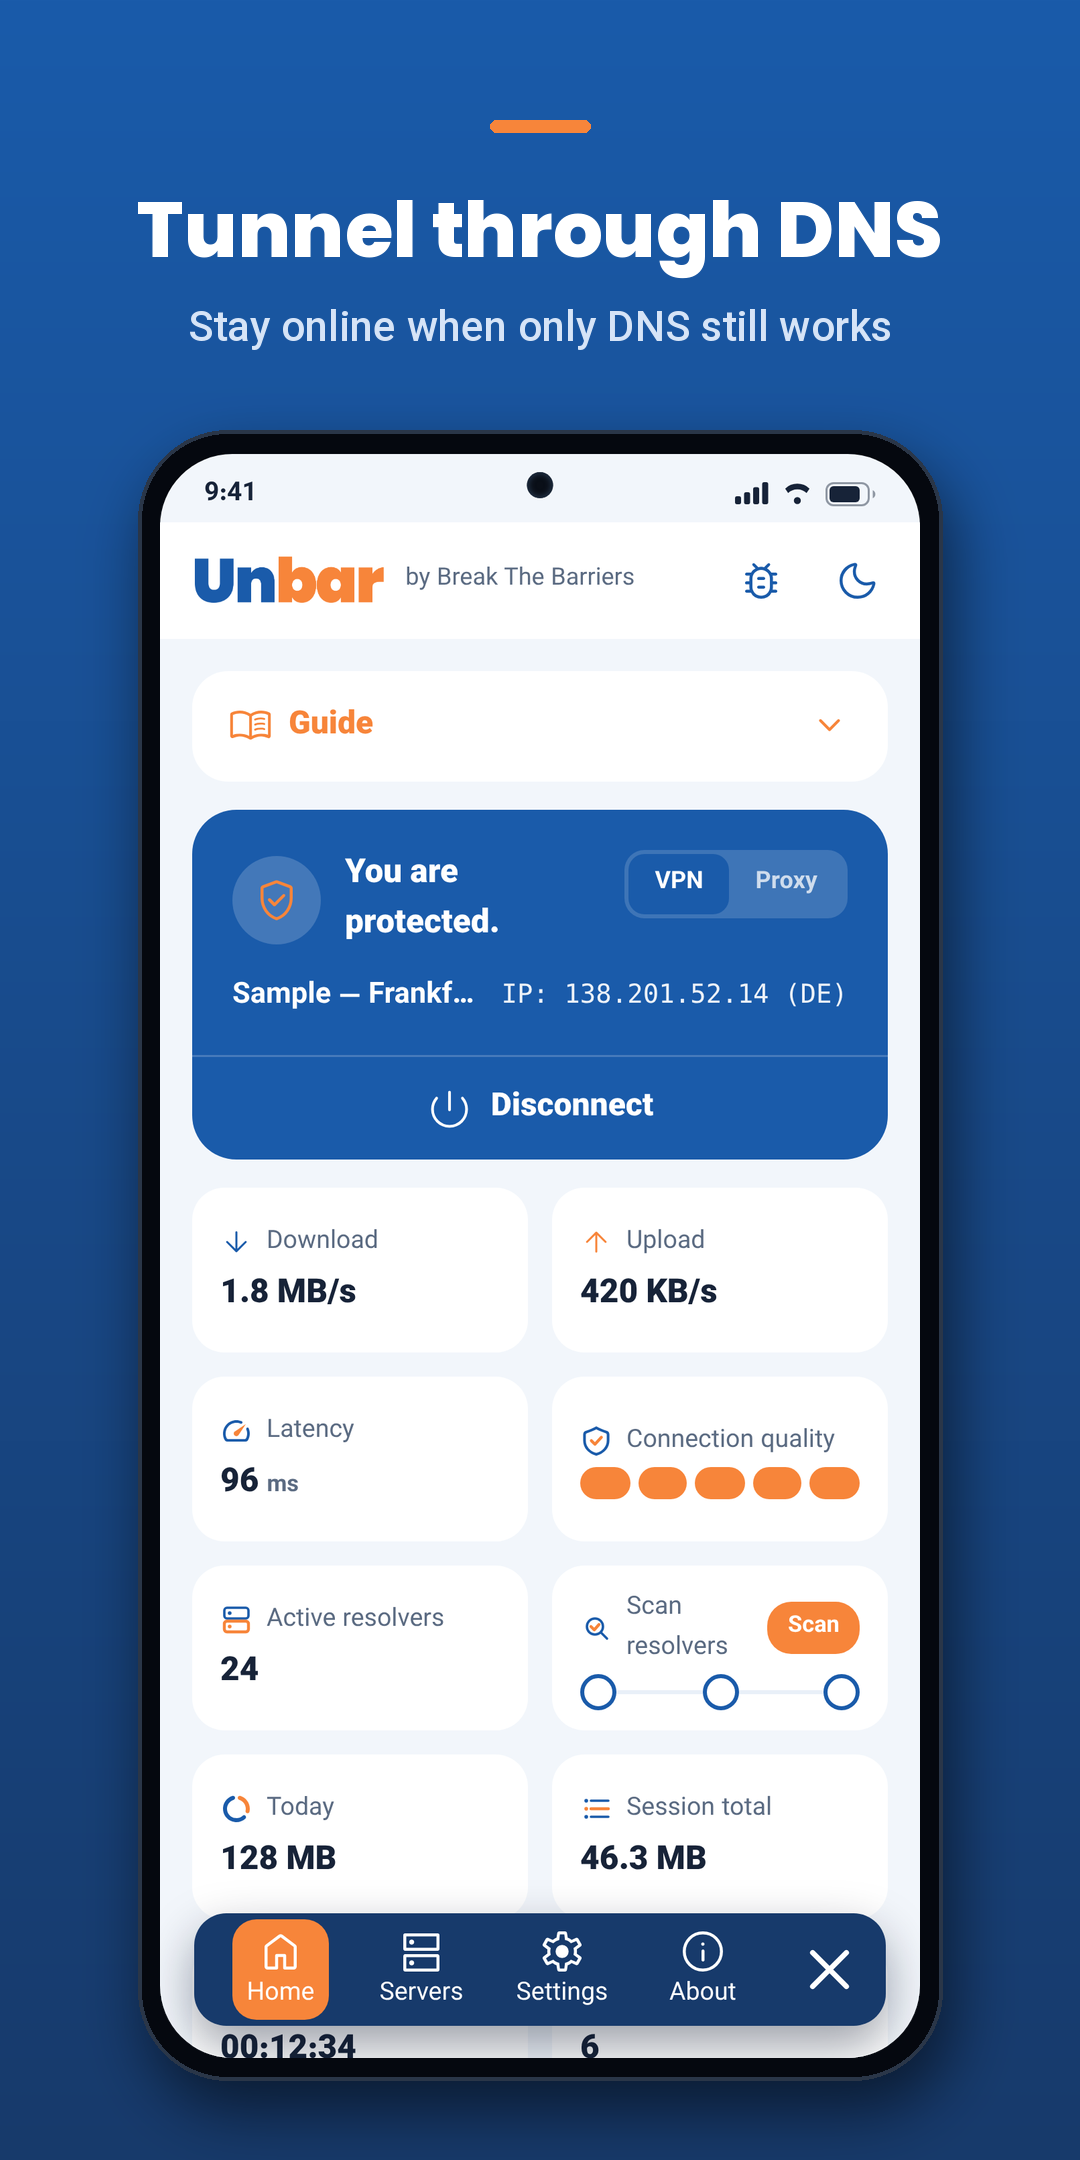
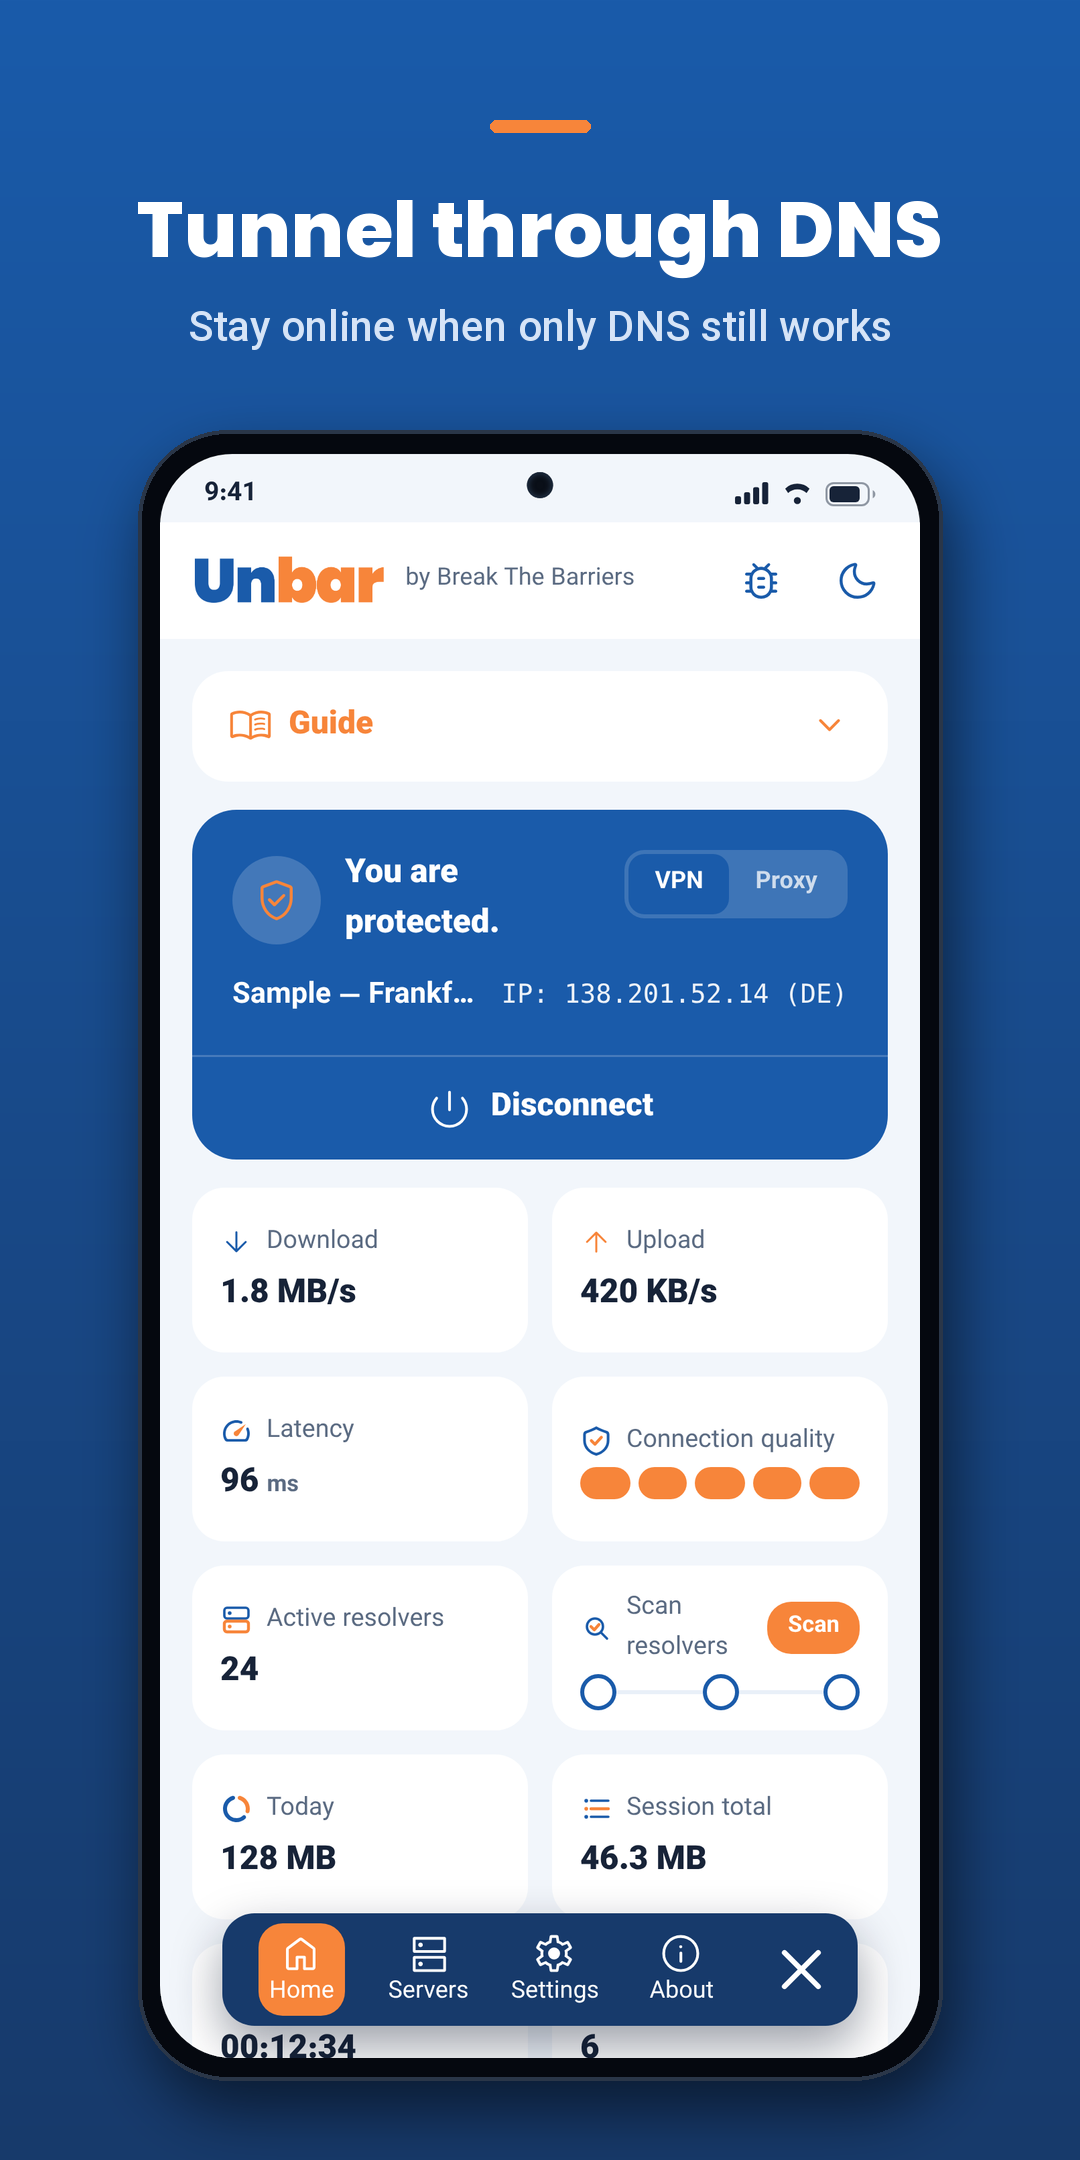
Unbar 1.0.2: shorter capsule menu, centred items with equal top/bottom space, centred text app-wide; screenshots re-rendered

diff --git a/android/app/src/main/java/com/breakthebarriers/unbar/ui/UnbarApp.kt b/android/app/src/main/java/com/breakthebarriers/unbar/ui/UnbarApp.kt
@@ -41,6 +41,7 @@ import androidx.compose.material.icons.rounded.Settings
 import androidx.compose.material3.ExperimentalMaterial3Api
 import androidx.compose.material3.Icon
 import androidx.compose.material3.IconButton
+import androidx.compose.material3.LocalTextStyle
 import androidx.compose.material3.MaterialTheme
 import androidx.compose.material3.Scaffold
 import androidx.compose.material3.Surface
@@ -64,6 +65,7 @@ import androidx.compose.ui.graphics.vector.ImageVector
 import androidx.compose.ui.platform.LocalLayoutDirection
 import androidx.compose.ui.res.stringResource
 import androidx.compose.ui.text.font.FontWeight
+import androidx.compose.ui.text.style.LineHeightStyle
 import androidx.compose.ui.text.style.TextOverflow
 import androidx.compose.ui.unit.LayoutDirection
 import androidx.compose.ui.unit.dp
@@ -557,9 +559,19 @@ private fun CapsuleMenuIcon(expanded: Boolean) {
     }
 }
 
+// (1.0.2): every item, selected or not, has the same box (icon,
+// 2dp gap, one trimmed label line, the pill's insets), so the icons
+// sit on one line, the block is centred in the capsule with equal
+// space above and below, and nothing moves when the selection moves.
 @Composable
 private fun CapsuleMenuItem(icon: ImageVector, labelRes: Int, selected: Boolean) {
     Column(
+        modifier = Modifier
+            .background(
+                if (selected) UnbarOrange else Color.Transparent,
+                RoundedCornerShape(12.dp)
+            )
+            .padding(horizontal = 5.dp, vertical = 4.dp),
         horizontalAlignment = Alignment.CenterHorizontally,
         verticalArrangement = Arrangement.Center
     ) {
@@ -567,12 +579,21 @@ private fun CapsuleMenuItem(icon: ImageVector, labelRes: Int, selected: Boolean)
             imageVector = icon,
             contentDescription = null,
             tint = Color.White,
-            modifier = Modifier.size(24.dp)
+            modifier = Modifier.size(22.dp)
         )
+        Spacer(modifier = Modifier.height(2.dp))
         Text(
             text = stringResource(labelRes),
-            fontSize = 13.sp,
-            lineHeight = 15.sp,
+            fontSize = 12.sp,
+            lineHeight = 14.sp,
+            // Glyphs centred in the line box and the extra leading
+            // trimmed, so the label adds no uneven space below.
+            style = LocalTextStyle.current.copy(
+                lineHeightStyle = LineHeightStyle(
+                    alignment = LineHeightStyle.Alignment.Center,
+                    trim = LineHeightStyle.Trim.Both
+                )
+            ),
             fontWeight = FontWeight.Normal,
             maxLines = 1,
             softWrap = false,
@@ -589,12 +610,12 @@ private fun FloatingCapsuleMenu(
     onNavigate: (String) -> Unit
 ) {
     var expanded by remember { mutableStateOf(false) }
-    // (1.0.33): 340dp, not 304dp — the 4 items need 71dp each
-    // (284dp of items) so the longest label ("Settings" /
-    // "تنظیمات") fits inside its orange pill without ellipsis.
-    // The 56dp close button is unchanged, so items = 340-56.
+    // (1.0.2): 316dp (was 340dp) — 12sp labels and 5dp pill insets
+    // let 4 items of 63dp (+8dp start inset = 260dp) hold the longest
+    // label ("Settings" / "تنظیمات") without ellipsis. The 56dp close
+    // button is unchanged, so items = 316-56.
     val capsuleWidth by animateDpAsState(
-        targetValue = if (expanded) 340.dp else 56.dp,
+        targetValue = if (expanded) 316.dp else 56.dp,
         animationSpec = tween(220),
         label = "capsuleMenuWidth"
     )
@@ -630,9 +651,9 @@ private fun FloatingCapsuleMenu(
             ) {
                 Row(
                     modifier = Modifier
-                        .requiredWidth(284.dp)
+                        .requiredWidth(260.dp)
                         .fillMaxHeight()
-                        .padding(start = 10.dp),
+                        .padding(start = 8.dp),
                     verticalAlignment = Alignment.CenterVertically
                 ) {
                     items.forEach { (route, labelRes, icon) ->
@@ -647,26 +668,7 @@ private fun FloatingCapsuleMenu(
                                 },
                             contentAlignment = Alignment.Center
                         ) {
-                            if (selected) {
-                                // Orange rounded-rect pill behind icon+label.
-                                // Sized to the item's content with insets, so it
-                                // never extends outside the blue capsule — not
-                                // even on Home, the leftmost item.
-                                // (1.0.33): the insets are 6dp, not 8dp — with
-                                // the wider capsule the longest label
-                                // ("Settings" / "تنظیمات") now fits without
-                                // ellipsis.
-                                Box(
-                                    modifier = Modifier
-                                        .background(UnbarOrange, RoundedCornerShape(12.dp))
-                                        .padding(horizontal = 6.dp, vertical = 3.dp),
-                                    contentAlignment = Alignment.Center
-                                ) {
-                                    CapsuleMenuItem(icon, labelRes, selected = true)
-                                }
-                            } else {
-                                CapsuleMenuItem(icon, labelRes, selected = false)
-                            }
+                            CapsuleMenuItem(icon, labelRes, selected)
                         }
                     }
                 }

diff --git a/android/app/src/main/java/com/breakthebarriers/unbar/ui/theme/Theme.kt b/android/app/src/main/java/com/breakthebarriers/unbar/ui/theme/Theme.kt
@@ -10,6 +10,8 @@ import androidx.compose.runtime.CompositionLocalProvider
 import androidx.compose.runtime.ReadOnlyComposable
 import androidx.compose.runtime.staticCompositionLocalOf
 import androidx.compose.ui.graphics.Color
+import androidx.compose.ui.text.TextStyle
+import androidx.compose.ui.text.style.LineHeightStyle
 import com.breakthebarriers.unbar.model.AppThemeMode
 
 // 1.0.2 "Cloud" palette: softer, cleaner light and dark themes.
@@ -119,8 +121,38 @@ fun UnbarTheme(
     CompositionLocalProvider(LocalUnbarDark provides darkTheme) {
         MaterialTheme(
             colorScheme = if (darkTheme) DarkColors else LightColors,
-            typography = Typography(),
+            typography = UnbarTypography,
             content = content
         )
     }
+}
+
+// (1.0.2) UX rule, app-wide: text is centred in its line box, so an
+// icon beside a label, or a label inside a chip, button or pill, has
+// equal space above and below. Same sizes as Material 3's defaults.
+private val CenteredLine = LineHeightStyle(
+    alignment = LineHeightStyle.Alignment.Center,
+    trim = LineHeightStyle.Trim.None
+)
+
+private fun TextStyle.centred(): TextStyle = copy(lineHeightStyle = CenteredLine)
+
+private val UnbarTypography: Typography = Typography().let { t ->
+    Typography(
+        displayLarge = t.displayLarge.centred(),
+        displayMedium = t.displayMedium.centred(),
+        displaySmall = t.displaySmall.centred(),
+        headlineLarge = t.headlineLarge.centred(),
+        headlineMedium = t.headlineMedium.centred(),
+        headlineSmall = t.headlineSmall.centred(),
+        titleLarge = t.titleLarge.centred(),
+        titleMedium = t.titleMedium.centred(),
+        titleSmall = t.titleSmall.centred(),
+        bodyLarge = t.bodyLarge.centred(),
+        bodyMedium = t.bodyMedium.centred(),
+        bodySmall = t.bodySmall.centred(),
+        labelLarge = t.labelLarge.centred(),
+        labelMedium = t.labelMedium.centred(),
+        labelSmall = t.labelSmall.centred()
+    )
 }

diff --git a/RELEASE-1.0.2.md b/RELEASE-1.0.2.md
@@ -45,3 +45,9 @@ Branch: `release-1.0.2` (from `main` / v1.0.1, 93a6524). Not pushed.
 - [x] Limits unchanged from the core: ranges up to /20; scan cap 5000 addresses (warning shown).
 - [x] Changelogs 31-33 (en-US, fa) updated.
 - [ ] Not compiled here (no Android SDK). Cleaner logic was compiled and tested with kotlinc 2.0.21 on JVM. Needs CI build + device test (pick file, replace, clear, scan, connect, switch Custom<->Import keeps both lists).
+
+## Capsule menu + text centring (2026-11-26)
+- [x] Capsule 316dp wide when open (was 340dp); items 63dp, labels 12sp, icons 22dp.
+- [x] Every item has the same box (pill insets on selected and unselected), so icons sit on one line, nothing shifts when the selection moves, and the block has equal space above and below (5dp/5dp in the 56dp capsule; menu button 14dp/14dp).
+- [x] App-wide: typography with text centred in its line box (LineHeightStyle Center) so icon+label rows, chips and pills stay vertically centred.
+- [x] Web demo capsule updated to match; en-US F-Droid screenshots re-rendered.
